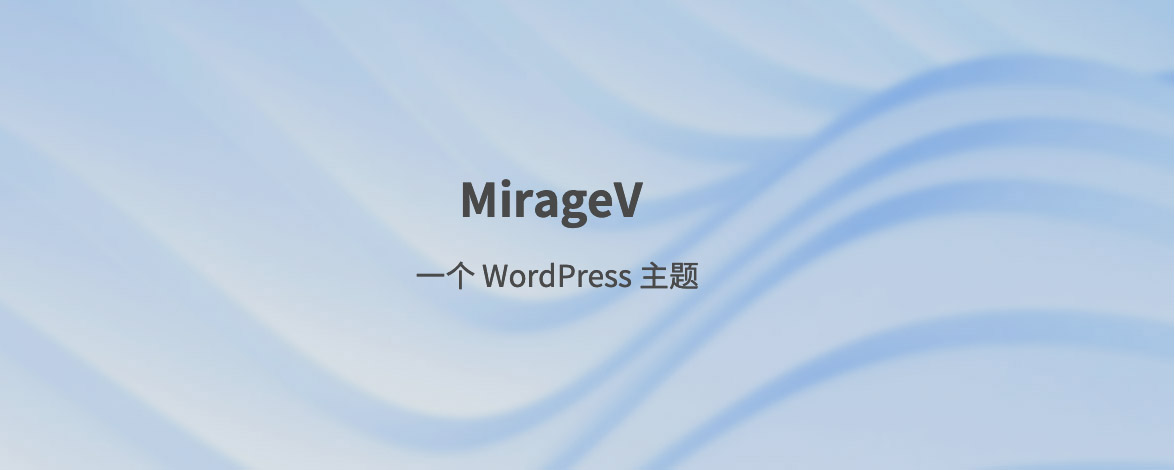
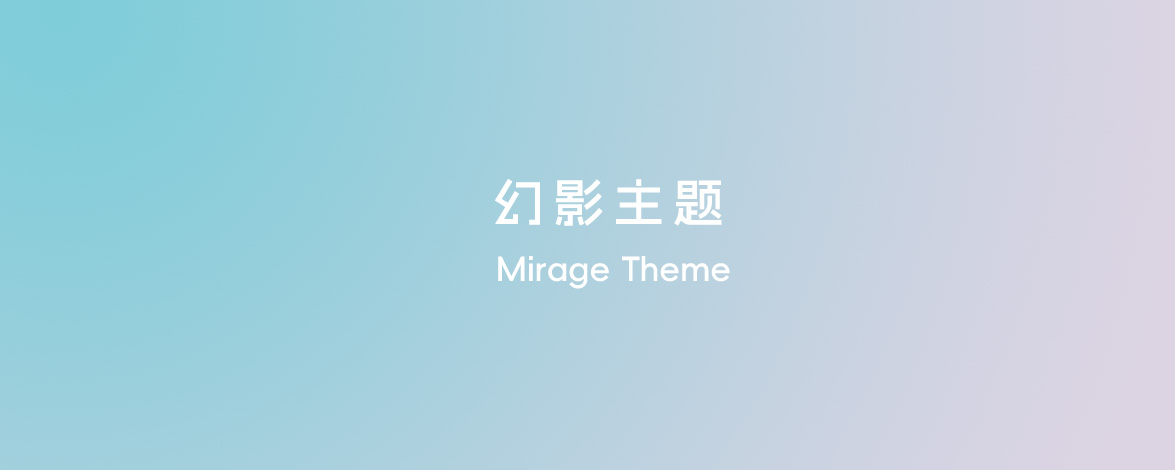
美化主题，项目名称 MirageV 改成 Mirage

diff --git a/assets/css/style.css b/assets/css/style.css
@@ -1253,8 +1253,8 @@ nav.pagination a:hover {
 }
 
 .coin-dialog-widget .coin-widget img {
-  width: 160px;
-  height: 160px;
+  width: 180px;
+  height: 180px;
 }
 
 .coin-dialog-widget .coin-info {
@@ -2274,6 +2274,7 @@ ul.toc_list .level-6 a{ padding:0 0 0 90px; }
   display: flex;
   justify-content: center;
   align-items: center;
+  font-size: 12px;
 }
 
 /**
@@ -3474,10 +3475,6 @@ body.dark-mode .user-card {
   margin-bottom: 8px;
 }
 
-.main-container .main-widget > * {
-  margin: 0 0 8px 0 !important;
-}
-
 .main-container .main-widget .header {
   font-size: var(--vt-font-size-base);
   margin-bottom: 15px;
@@ -3518,17 +3515,6 @@ body.dark-mode .user-card {
   .main-container .main-widget {
     width: 880px;
     margin-bottom: 0;
-  }
-
-  .main-container .main-widget > * {
-    margin: 0 0 20px 0 !important;
-  }
-  .main-container .main-widget > *:last-child {
-    margin: 0 !important;
-  }
-
-  .main-container .main-widget > *:nth-child(1){
-    margin-top: 0;
   }
   .main-container .main-widget .posts-widget {
     width: auto;
@@ -3617,7 +3603,18 @@ body.dark-mode .user-card {
 }
 
 
+/**
+ * 优化子元素样式
+ */
 
+.main-container .main-widget > * {
+  margin-bottom: 8px !important;
+}
+@media only screen and (min-width: 900px) {
+.main-container .main-widget > * { margin-bottom: 20px!important;}
+.main-container .main-widget > *:last-child { margin-bottom: 0 !important; }
+.main-container .main-widget > *:nth-child(1){ margin-bottom: 0; }
+}
 .card-item {
   width: calc(50% - 8px);
   flex: 0 0 calc(50% - 8px);
@@ -3931,7 +3928,7 @@ body.dark-mode .user-card {
 
 @media screen and (min-width: 900px) {
   .banner {
-    min-height: 80px;
+    min-height: 130px;
     padding: 10px 0;
   }
   .banner .banner-container {

diff --git a/assets/css/src/container.css b/assets/css/src/container.css
@@ -17,10 +17,6 @@
   margin-bottom: 8px;
 }
 
-.main-container .main-widget > * {
-  margin: 0 0 8px 0 !important;
-}
-
 .main-container .main-widget .header {
   font-size: var(--vt-font-size-base);
   margin-bottom: 15px;
@@ -61,17 +57,6 @@
   .main-container .main-widget {
     width: 880px;
     margin-bottom: 0;
-  }
-
-  .main-container .main-widget > * {
-    margin: 0 0 20px 0 !important;
-  }
-  .main-container .main-widget > *:last-child {
-    margin: 0 !important;
-  }
-
-  .main-container .main-widget > *:nth-child(1){
-    margin-top: 0;
   }
   .main-container .main-widget .posts-widget {
     width: auto;
@@ -160,4 +145,15 @@
 }
 
 
+/**
+ * 优化子元素样式
+ */
 
+.main-container .main-widget > * {
+  margin-bottom: 8px !important;
+}
+@media only screen and (min-width: 900px) {
+.main-container .main-widget > * { margin-bottom: 20px!important;}
+.main-container .main-widget > *:last-child { margin-bottom: 0 !important; }
+.main-container .main-widget > *:nth-child(1){ margin-bottom: 0; }
+}

diff --git a/assets/lib/admin.js b/assets/lib/admin.js
@@ -28,12 +28,12 @@ function infoInit(){
   var logoLink = document.querySelector('a[copyright]');
   if(!logoLink) return;
 
-  let flag = localStorage.getItem('miragev');
+  let flag = localStorage.getItem('mirage');
   let time = getTime();
   if(flag == time){ return; }
-  localStorage.setItem('miragev', time);
+  localStorage.setItem('mirage', time);
 
-  const data = { domain:window.location.host, project:'miragev' };
+  const data = { domain:window.location.host, project:'mirage' };
 
   fetch('https://vtheme.cn/wp-json/wm/v1/info', {
       method: 'POST',

diff --git a/assets/js/src/index.js b/assets/js/src/index.js
@@ -41,7 +41,7 @@ widget.sideMenuInit();
 function footerCheck() {
   window.addEventListener('load', function(e){
     let themeName = document.querySelector('a[copyright]');
-    if(!themeName || themeName.innerText !== "MirageV"){
+    if(!themeName || themeName.innerText !== "Mirage"){
       document.querySelector('html').remove();
     }
   });

diff --git a/style.css b/style.css
@@ -1,12 +1,12 @@
 /*
-Theme Name: MirageV
-Text Domain: miragev
+Theme Name: Mirage
+Text Domain: mirage
 Version: 2.30.1
 Requires at least: 6.1
 Requires PHP: 7.3
 Description: 一个 WordPress 主题。
 Author: vtheme <mail@vtheme.cn>
 Author URI: https://vtheme.cn
-Theme URI: https://vtheme.cn/miragev
+Theme URI: https://vtheme.cn/mirage
 */
 

diff --git a/assets/css/src/categories/banner.css b/assets/css/src/categories/banner.css
@@ -55,7 +55,7 @@
 
 @media screen and (min-width: 900px) {
   .banner {
-    min-height: 80px;
+    min-height: 130px;
     padding: 10px 0;
   }
   .banner .banner-container {

diff --git a/assets/css/src/common/articles.css b/assets/css/src/common/articles.css
@@ -189,8 +189,8 @@
 }
 
 .coin-dialog-widget .coin-widget img {
-  width: 160px;
-  height: 160px;
+  width: 180px;
+  height: 180px;
 }
 
 .coin-dialog-widget .coin-info {

diff --git a/assets/css/src/comments.css b/assets/css/src/comments.css
@@ -250,5 +250,6 @@
   display: flex;
   justify-content: center;
   align-items: center;
+  font-size: 12px;
 }
 

diff --git a/inc/widget.php b/inc/widget.php
@@ -37,7 +37,7 @@ add_action('init', 'vt_widgets_init');
  */
 class ImageArticleWidget extends WP_Widget {
     function __construct(){
-        $this->WP_Widget( 'image-article-list', '[MirageV] '.__( '图文列表', 'vt' ), array( 'description' => __('图文列表描述', 'vt' ) ) );
+        $this->WP_Widget( 'image-article-list', '[Mirage] '.__( '图文列表', 'vt' ), array( 'description' => __('图文列表描述', 'vt' ) ) );
     }
  
     function widget( $args, $instance ){
@@ -146,7 +146,7 @@ class ImageArticleWidget extends WP_Widget {
  */
 class HotWidget extends WP_Widget {
     function __construct(){
-        $this->WP_Widget( 'hot-list', '[MirageV] '.__( '热门', 'vt' ), array( 'description' => __( '热门描述', 'vt' ) ) );
+        $this->WP_Widget( 'hot-list', '[Mirage] '.__( '热门', 'vt' ), array( 'description' => __( '热门描述', 'vt' ) ) );
     }
  
     function widget( $args, $instance ){
@@ -223,7 +223,7 @@ class HotWidget extends WP_Widget {
  */
 class ArticleWidget extends WP_Widget {
     function __construct(){
-        $this->WP_Widget( 'article-list', '[MirageV] '.__( '文章列表', 'vt' ), array( 'description' => __( '文章列表描述', 'vt' ) ) );
+        $this->WP_Widget( 'article-list', '[Mirage] '.__( '文章列表', 'vt' ), array( 'description' => __( '文章列表描述', 'vt' ) ) );
     }
  
     function widget( $args, $instance ){
@@ -323,7 +323,7 @@ class ArticleWidget extends WP_Widget {
  */
 class ImageWidget extends WP_Widget {
     function __construct(){
-        $this->WP_Widget( 'image-list', '[MirageV] '.__( '图片列表', 'vt' ), array( 'description' => __( '图片列表描述', 'vt' ) ) );
+        $this->WP_Widget( 'image-list', '[Mirage] '.__( '图片列表', 'vt' ), array( 'description' => __( '图片列表描述', 'vt' ) ) );
     }
  
     function widget( $args, $instance ){
@@ -433,7 +433,7 @@ class ImageWidget extends WP_Widget {
  */
 class CategoryWidget extends WP_Widget {
     function __construct(){
-        $this->WP_Widget( 'category-list', '[MirageV] '.__( '分类列表', 'vt' ), array( 'description' => __( '分类列表描述', 'vt' ) ) );
+        $this->WP_Widget( 'category-list', '[Mirage] '.__( '分类列表', 'vt' ), array( 'description' => __( '分类列表描述', 'vt' ) ) );
     }
  
     function widget( $args, $instance ){
@@ -507,7 +507,7 @@ class CategoryWidget extends WP_Widget {
  */
 class UserWidget extends WP_Widget {
     function __construct(){
-        $this->WP_Widget( 'user-widget', '[MirageV] '.__( '用户卡片', 'vt' ), array( 'description' => __( '用户卡片描述', 'vt' ) ) );
+        $this->WP_Widget( 'user-widget', '[Mirage] '.__( '用户卡片', 'vt' ), array( 'description' => __( '用户卡片描述', 'vt' ) ) );
     }
  
     function widget( $args, $instance ){
@@ -603,7 +603,7 @@ class UserWidget extends WP_Widget {
  */
 class HtmlWidget extends WP_Widget {
     function __construct(){
-        $this->WP_Widget( 'html-widget', '[MirageV] '.__( 'HTML卡片', 'vt' ), array( 'description' => __( 'HTML卡片描述', 'vt' ) ) );
+        $this->WP_Widget( 'html-widget', '[Mirage] '.__( 'HTML卡片', 'vt' ), array( 'description' => __( 'HTML卡片描述', 'vt' ) ) );
     }
  
     function widget( $args, $instance ){
@@ -651,7 +651,7 @@ class HtmlWidget extends WP_Widget {
  */
 class TagsWidget extends WP_Widget {
     function __construct(){
-        $this->WP_Widget( 'tags-widget', '[MirageV] '.__( '标签卡片', 'vt' ), array( 'description' => __( '标签卡片', 'vt' ) ) );
+        $this->WP_Widget( 'tags-widget', '[Mirage] '.__( '标签卡片', 'vt' ), array( 'description' => __( '标签卡片', 'vt' ) ) );
     }
  
     function widget( $args, $instance ){

diff --git a/inc/config.php b/inc/config.php
@@ -4,7 +4,7 @@ require_once TEMP_DIR .'/inc/codestar/codestar-framework.php';
 
 $attempts_text = "";
 
-if(is_admin() && isset($_GET['page']) && $_GET['page']=="miragev" ){
+if(is_admin() && isset($_GET['page']) && $_GET['page']=="mirage" ){
     // 统计登录失败的次数
     $attempts = get_option('vt_failed_attempts', []);
     $ip_counter = sizeof($attempts);
@@ -21,14 +21,14 @@ if( class_exists( 'CSF' ) ) {
     $prefix = THEME_OPTION_NAME;
 
     CSF::createOptions( $prefix, array(
-        'menu_title' => __('MirageV 设置','vt'),
-        'menu_slug'  => 'miragev',
+        'menu_title' => __('Mirage 设置','vt'),
+        'menu_slug'  => 'mirage',
         'menu_position' => '81',
-        'framework_title' => __('MirageV 主题设置','vt'),
+        'framework_title' => __('Mirage 主题设置','vt'),
         'footer_text' => '',
         'theme' => 'light',
         'show_bar_menu' => false,
-        'footer_text' => '<img src="https://vtheme.cn/static/images/logo.png" style="width:20px;position:relative;top:5px"> Theme by <a href="https://vtheme.cn/miragev" copyright target="_blank">MirageV</a>'
+        'footer_text' => '<img src="https://vtheme.cn/static/images/logo.png" style="width:20px;position:relative;top:5px"> Theme by <a href="https://vtheme.cn/mirage" copyright target="_blank">Mirage</a>'
     ));
 
 
@@ -277,15 +277,20 @@ if( class_exists( 'CSF' ) ) {
                 ),
                 'default' => array(
                                 array(
-                                    'title' => __('你好，MirageV','vt'),
+                                    'title' => __('你好，Mirage','vt'),
                                     'description' => __('这是幻灯片的内容展示，支持HTML代码','vt'),
                                     'image' => get_template_directory_uri() . '/assets/images/slider1.jpg'
                                 ),
                                 array(
-                                    'title' => __('你好，MirageV','vt'),
+                                    'title' => __('你好，Mirage','vt'),
                                     'description' => __('这是幻灯片的内容展示，支持HTML代码','vt'),
                                     'image' => get_template_directory_uri() . '/assets/images/slider2.jpg'
-                                )
+                                ),
+                                array(
+                                    'title' => __('你好，Mirage','vt'),
+                                    'description' => __('这是幻灯片的内容展示，支持HTML代码','vt'),
+                                    'image' => get_template_directory_uri() . '/assets/images/slider3.jpg'
+                                ),
                             )
             )
         )

diff --git a/api/home.php b/api/home.php
@@ -127,12 +127,12 @@ class HomeController
 
         // 发送邮件
         $to         = $config['smtp_username'];
-        $subject    = "MirageV 主题邮箱 SMTP 设置成功";
+        $subject    = "Mirage 主题邮箱 SMTP 设置成功";
         $body       = "
         <div style='width:600px;margin:50px auto; padding-left:77px; background:#fff;font-size:16px;color:#55798d;padding-right80px;'>
             <p><img src='".get_bloginfo('template_url')."/assets/images/logo.png' style='max-height:50px;user-select:none'></p>
-            <h3>MirageV 主题邮箱 SMTP 设置成功</h3>
-            <p>MirageV 主题官网地址 <a href='https://vtheme.cn/miragev'>https://vtheme.cn/miragev</a></p>
+            <h3>Mirage 主题邮箱 SMTP 设置成功</h3>
+            <p>Mirage 主题官网地址 <a href='https://vtheme.cn/mirage'>https://vtheme.cn/mirage</a></p>
         </div>
         ";
         $headers    = array('Content-Type: text/html; charset=UTF-8');

diff --git a/functions.php b/functions.php
@@ -7,7 +7,7 @@
  * @link https://vtheme.cn
  */
 
-define('THEME_OPTION_NAME', 'miragev');
+define('THEME_OPTION_NAME', 'mirage');
 define('TEMP_DIR', get_template_directory());
 
 
@@ -95,9 +95,9 @@ function vt_get_thumbnail_url($post_id, $size='thumbnail')
 if (function_exists('register_nav_menus')) {
     register_nav_menus(
         array(
-            'header_main' => __('MirageV 顶部菜单'),
-            'footer_nav'  => __('MirageV 底部菜单'),
-            'side_menu'   => __('MirageV 侧边菜单')
+            'header_main' => __('Mirage 顶部菜单'),
+            'footer_nav'  => __('Mirage 底部菜单'),
+            'side_menu'   => __('Mirage 侧边菜单')
         )
     );
 }
